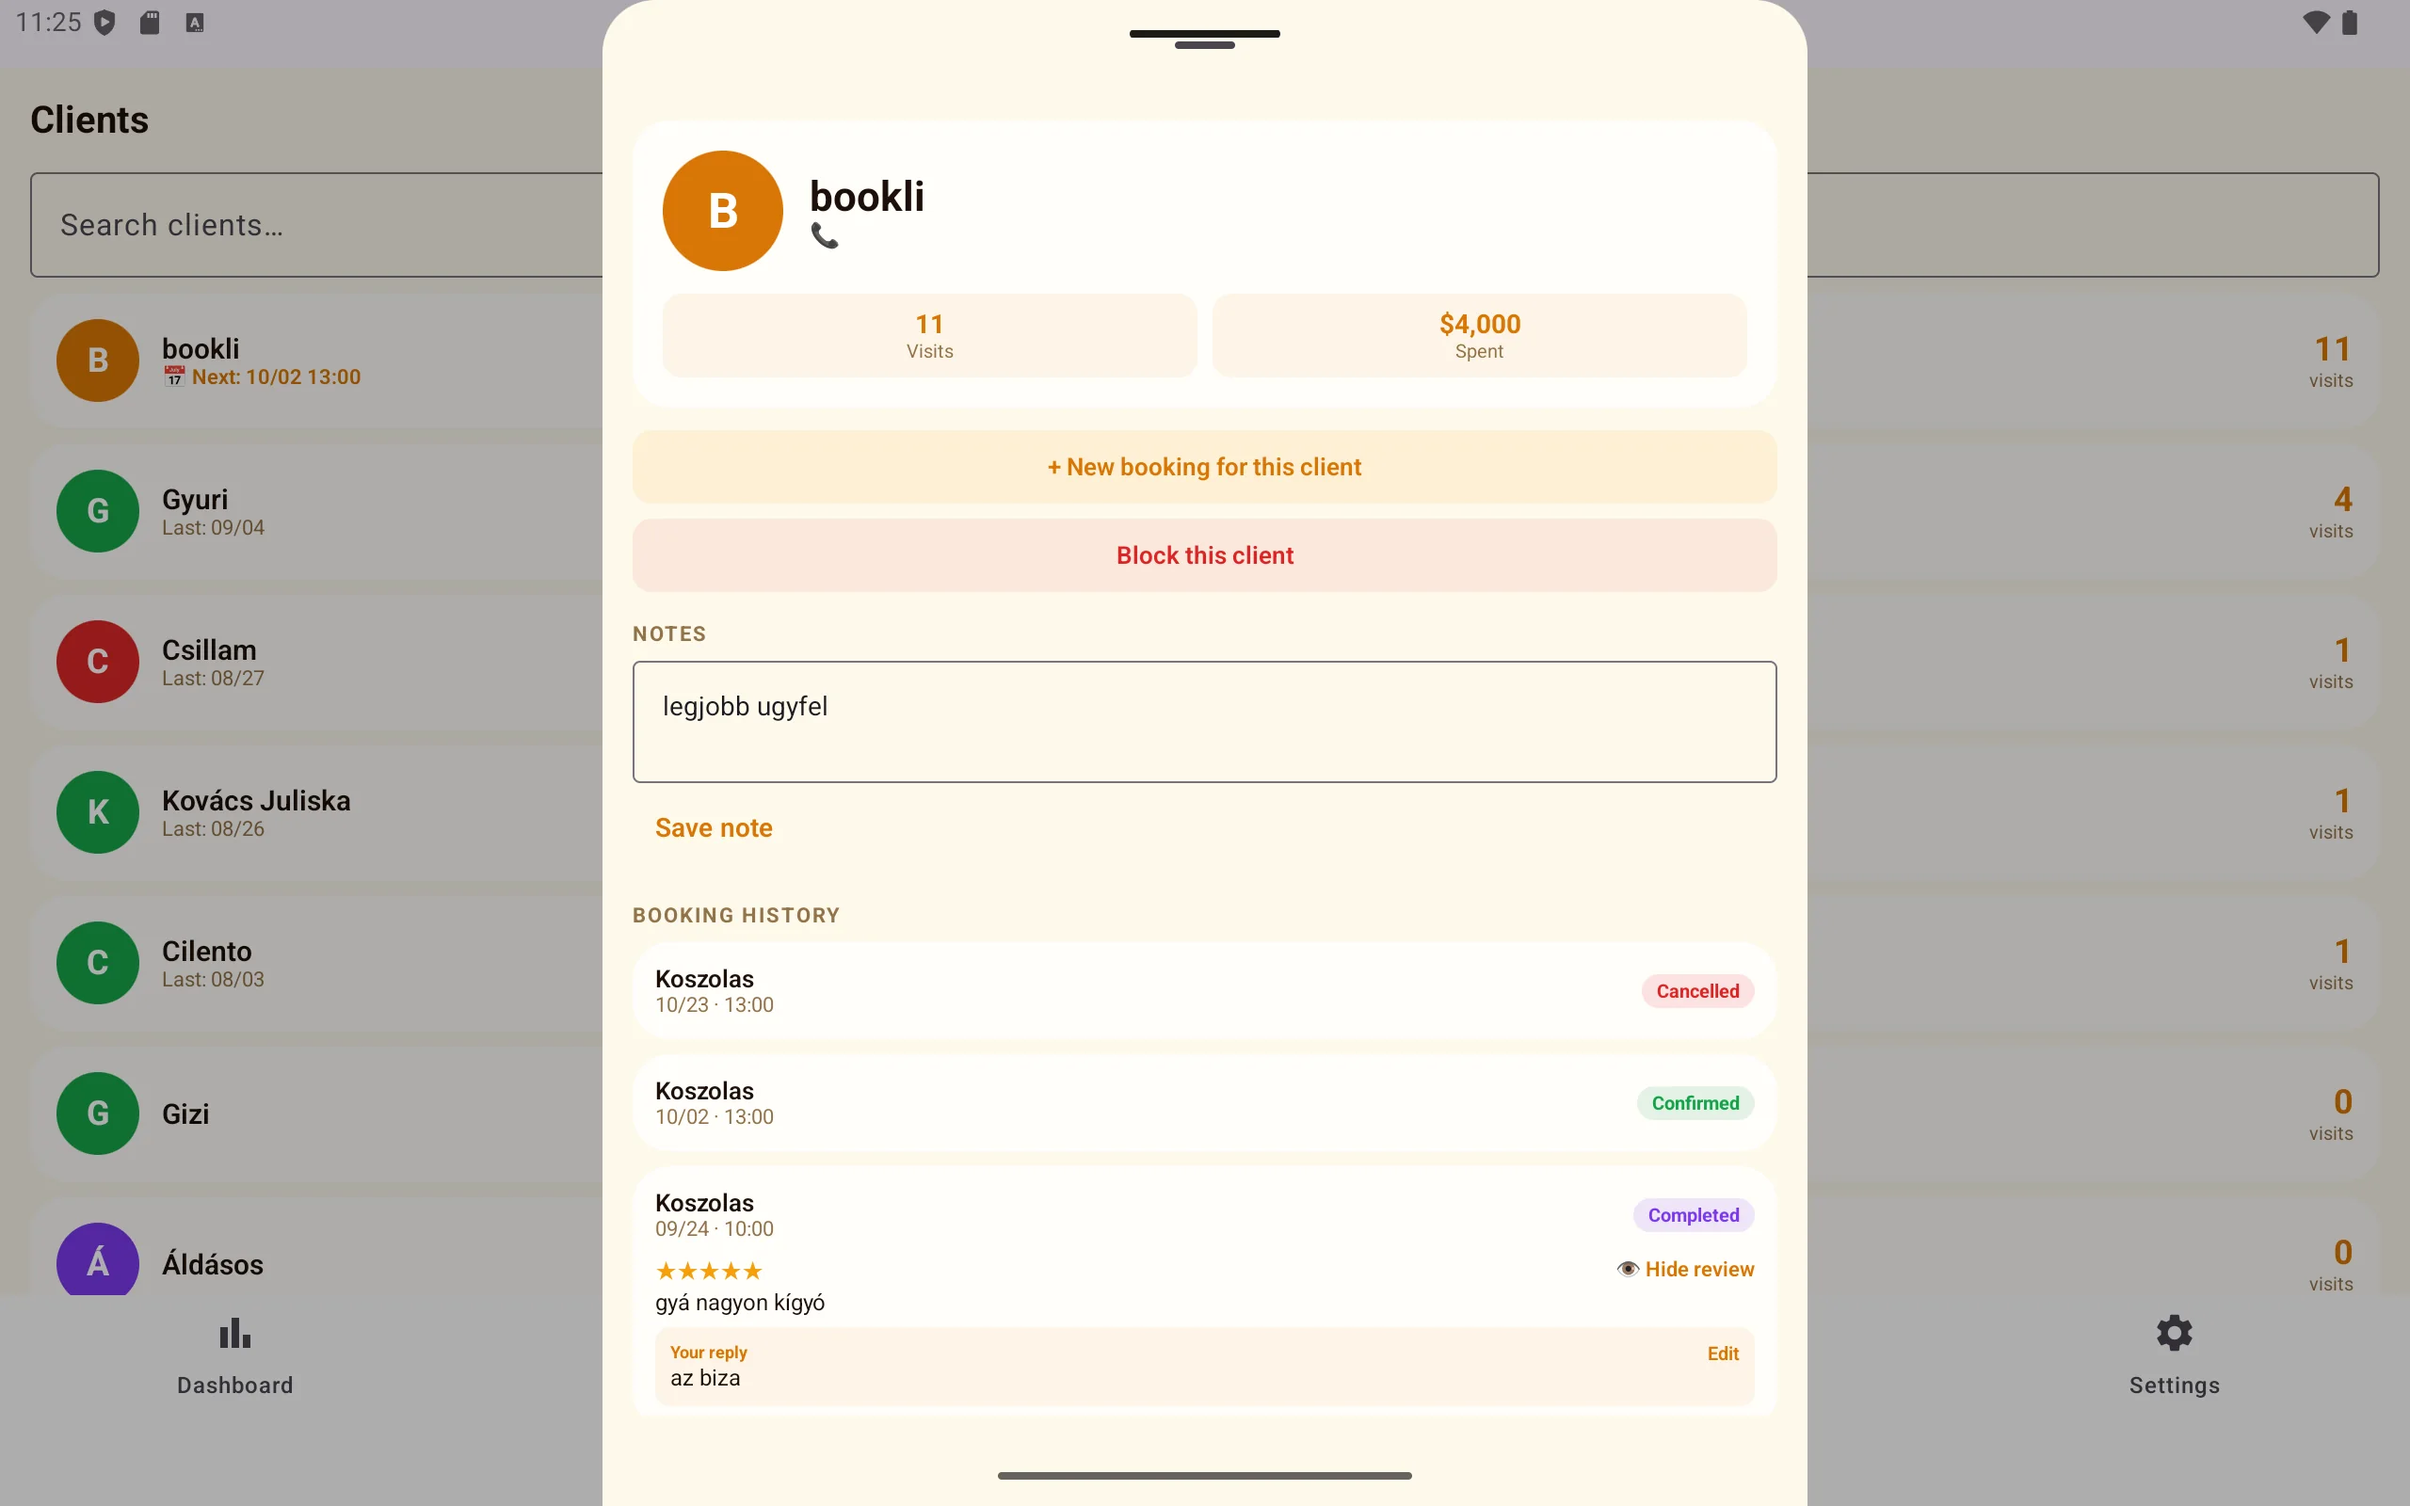
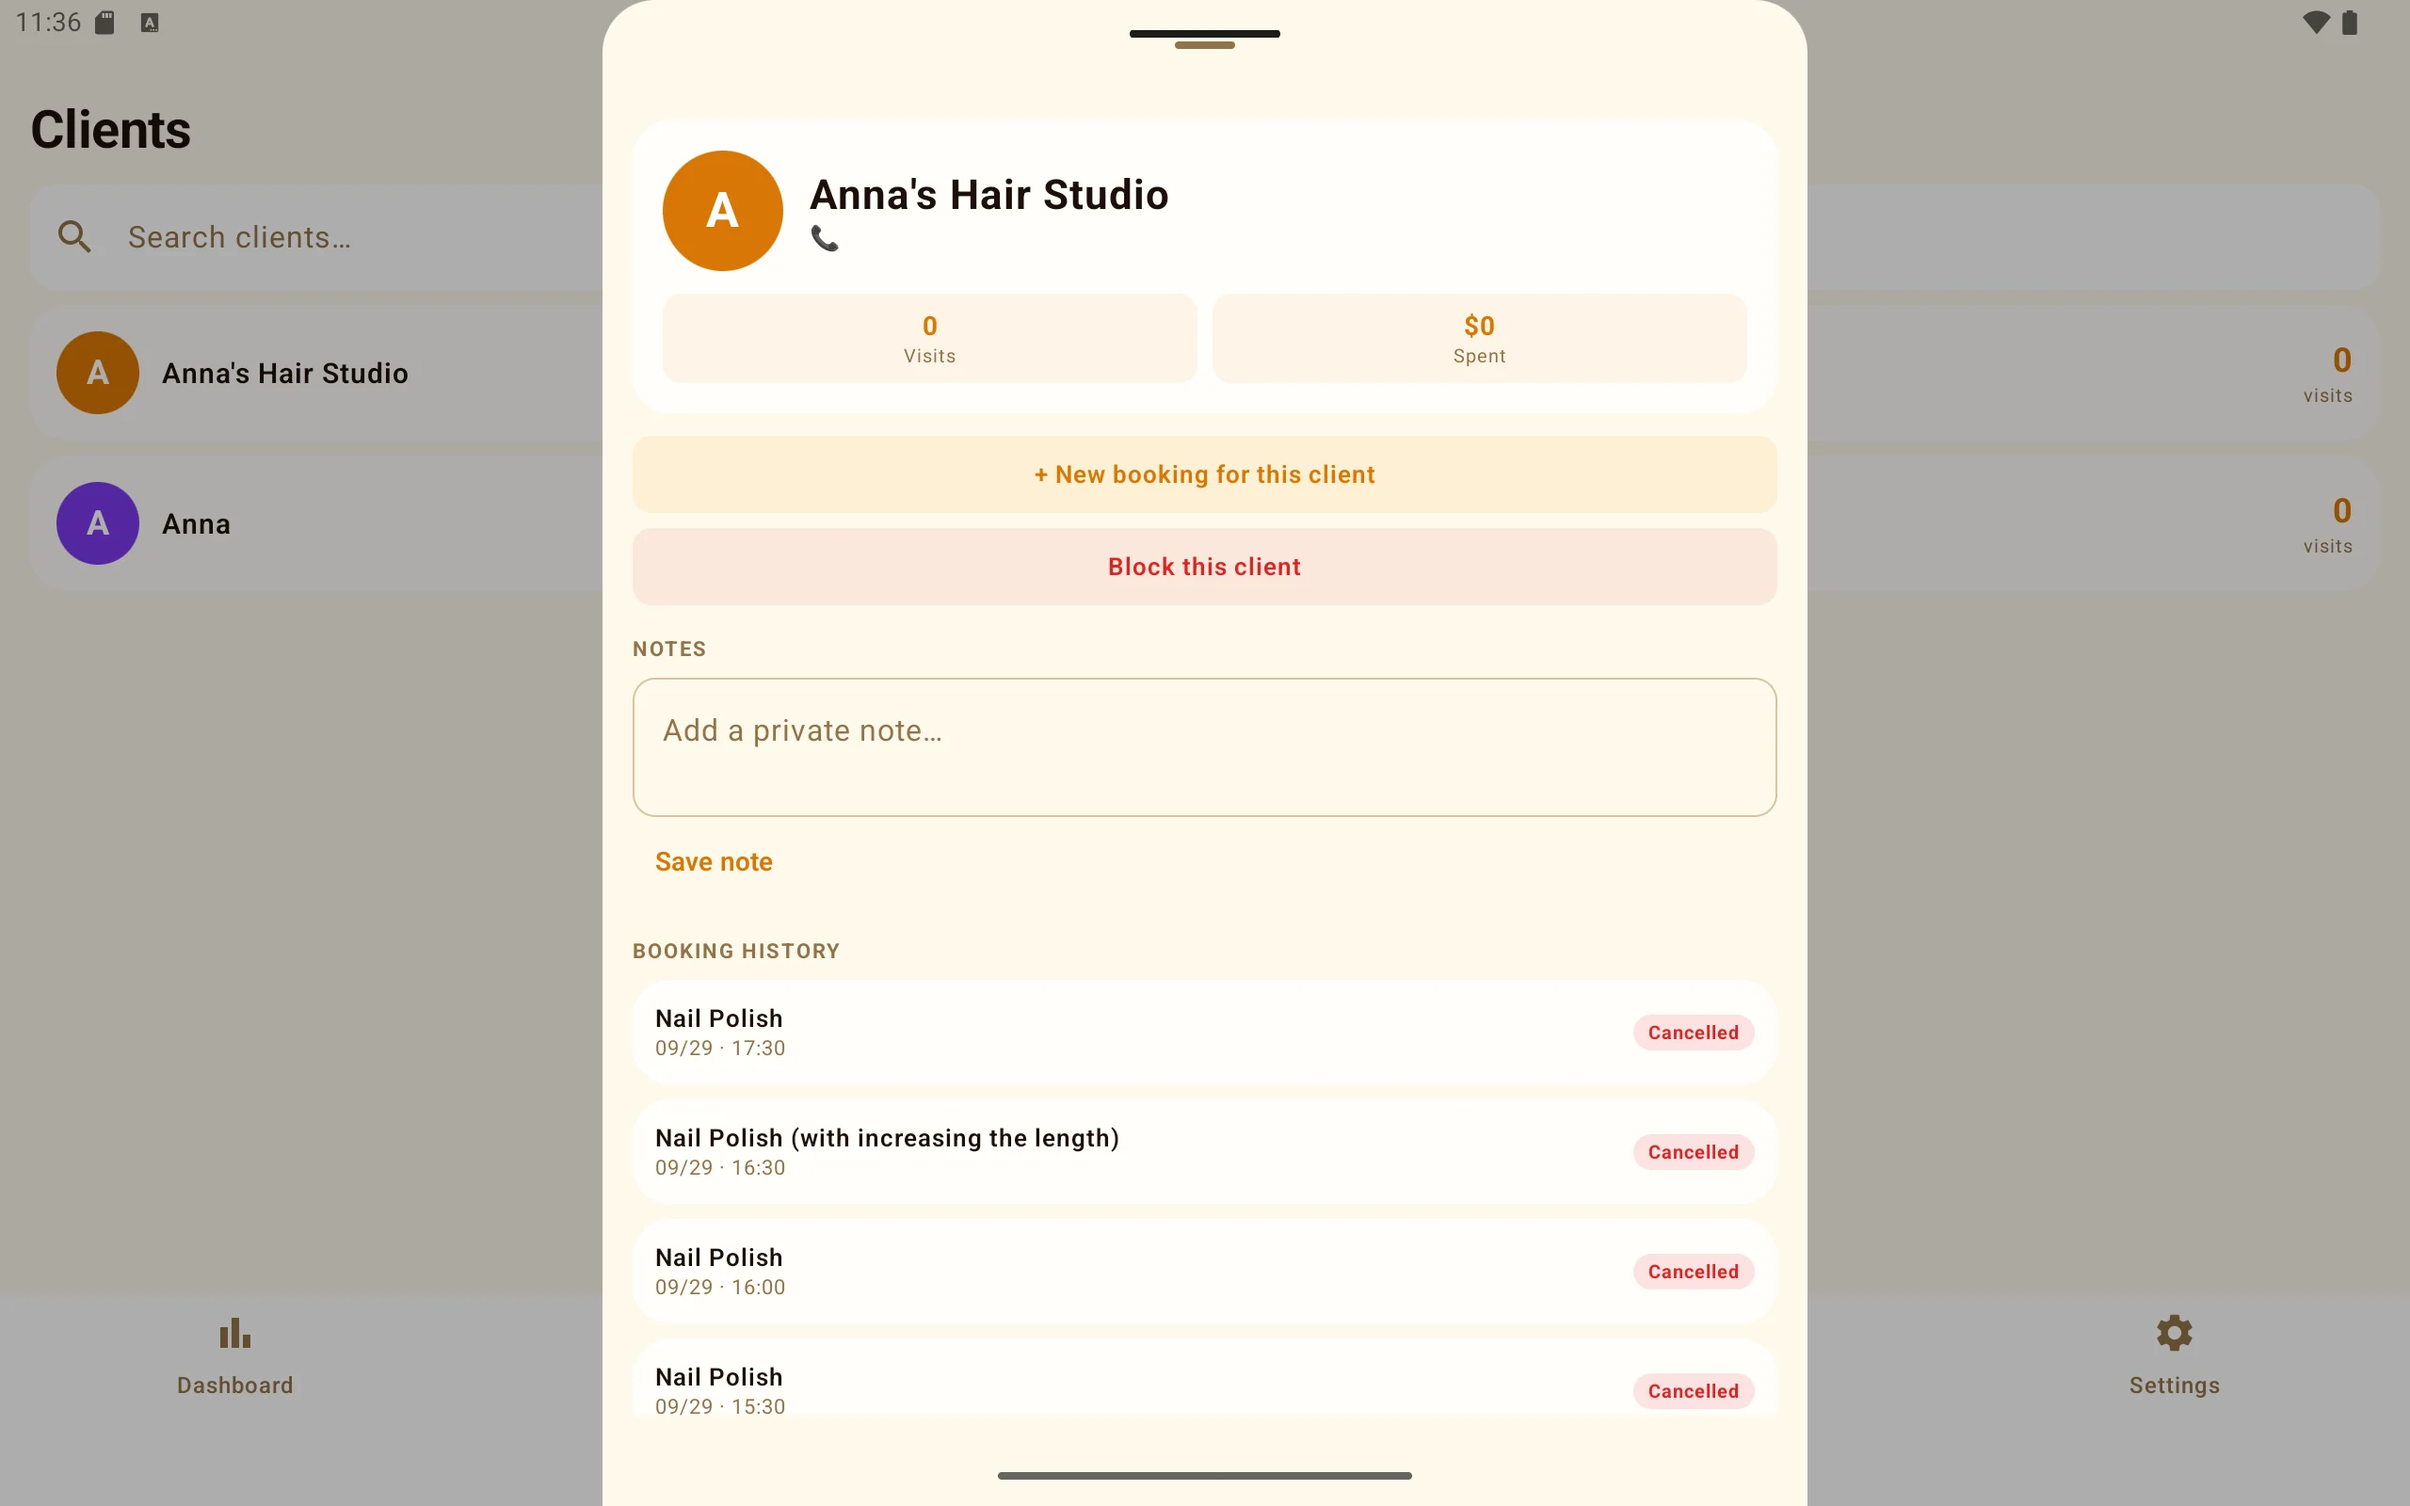
Fresh Bestli tablet screenshots (sign in, loading, client details, free trial back)

diff --git a/index.html b/index.html
@@ -53,8 +53,10 @@ footer{border-top:1px solid var(--line);padding:30px 0;color:#807568;font-size:1
 <figure class="screen-card phone"><div class="screen-visual"><img src="/assets/screenshots/freetrial.webp" alt="" loading="lazy" decoding="async"></div><figcaption class="screen-copy"><strong>Free trial</strong><span>Get started with clear pricing</span></figcaption></figure>
 <figure class="screen-card phone"><div class="screen-visual"><img src="/assets/screenshots/loginscreen.webp" alt="" loading="lazy" decoding="async"></div><figcaption class="screen-copy"><strong>Simple sign in</strong><span>Get to your business in a few taps</span></figcaption></figure>
 <figure class="screen-card phone"><div class="screen-visual"><img src="/assets/screenshots/loadingscreen.webp" alt="" loading="lazy" decoding="async"></div><figcaption class="screen-copy"><strong>A little Bestli polish</strong><span>Branded from the first screen</span></figcaption></figure></div></div></div></div><div class="screen-group"><h3>Room to see more on tablet</h3><div class="ticker-lane tablets" role="region" tabindex="0" aria-label="Tablet app screenshots. The row scrolls continuously and pauses on focus or hover."><div class="ticker-runway"><div class="ticker-set"><figure class="screen-card tablet"><div class="screen-visual"><img src="/assets/screenshots/tabletclientdetails.webp" alt="Bestli client details screen on a tablet" loading="lazy" decoding="async"></div><figcaption class="screen-copy"><strong>Client details</strong><span>Client information and bookings at a glance</span></figcaption></figure>
+<figure class="screen-card tablet"><div class="screen-visual"><img src="/assets/screenshots/tabletfreetrial.webp" alt="Bestli free trial screen on a tablet" loading="lazy" decoding="async"></div><figcaption class="screen-copy"><strong>Free trial</strong><span>Plans and beta information on a larger screen.</span></figcaption></figure>
 <figure class="screen-card tablet"><div class="screen-visual"><img src="/assets/screenshots/tabletloginscreen.webp" alt="Bestli sign in screen on a tablet" loading="lazy" decoding="async"></div><figcaption class="screen-copy"><strong>Sign in</strong><span>A comfortable layout on a larger screen</span></figcaption></figure>
 <figure class="screen-card tablet"><div class="screen-visual"><img src="/assets/screenshots/tabletloadingscreen.webp" alt="Bestli loading screen on a tablet" loading="lazy" decoding="async"></div><figcaption class="screen-copy"><strong>Bestli loading screen</strong><span>The same familiar brand across devices</span></figcaption></figure></div><div class="ticker-set" aria-hidden="true" inert><figure class="screen-card tablet"><div class="screen-visual"><img src="/assets/screenshots/tabletclientdetails.webp" alt="" loading="lazy" decoding="async"></div><figcaption class="screen-copy"><strong>Client details</strong><span>Client information and bookings at a glance</span></figcaption></figure>
+<figure class="screen-card tablet"><div class="screen-visual"><img src="/assets/screenshots/tabletfreetrial.webp" alt="" loading="lazy" decoding="async"></div><figcaption class="screen-copy"><strong>Free trial</strong><span>Plans and beta information on a larger screen.</span></figcaption></figure>
 <figure class="screen-card tablet"><div class="screen-visual"><img src="/assets/screenshots/tabletloginscreen.webp" alt="" loading="lazy" decoding="async"></div><figcaption class="screen-copy"><strong>Sign in</strong><span>A comfortable layout on a larger screen</span></figcaption></figure>
 <figure class="screen-card tablet"><div class="screen-visual"><img src="/assets/screenshots/tabletloadingscreen.webp" alt="" loading="lazy" decoding="async"></div><figcaption class="screen-copy"><strong>Bestli loading screen</strong><span>The same familiar brand across devices</span></figcaption></figure></div></div></div></div></div></section>
 <section id="business"><div class="wrap"><div class="product"><div class="product-grid"><div><div class="kicker" style="color:#ff9a18">For business owners</div><h2>Small business.<br>Serious tools.</h2><p>You shouldn't need enterprise software to run a professional service business. Bestli keeps the important stuff together and leaves the complexity behind.</p><div class="checks"><div class="check"><i>✓</i> Manage bookings and availability</div><div class="check"><i>✓</i> Keep client history in one place</div><div class="check"><i>✓</i> Track revenue, expenses and VAT</div><div class="check"><i>✓</i> Let customers discover and book you</div></div></div><div class="mock-grid"><div class="mock"><div class="label">Today</div><strong>1</strong><small>next booking · 10:00</small><div class="bar"><b></b></div></div><div class="mock purple"><div class="label">Rating</div><strong>5.0</strong><small>average</small><div class="bar"><b></b></div></div><div class="mock green"><div class="label">Revenue</div><strong>$3,000</strong><small>this month</small><div class="bar"><b></b></div></div><div class="mock"><div class="label">Upcoming</div><strong>2</strong><small>next 14 days</small><div class="bar"><b></b></div></div></div></div></div></div></section>
